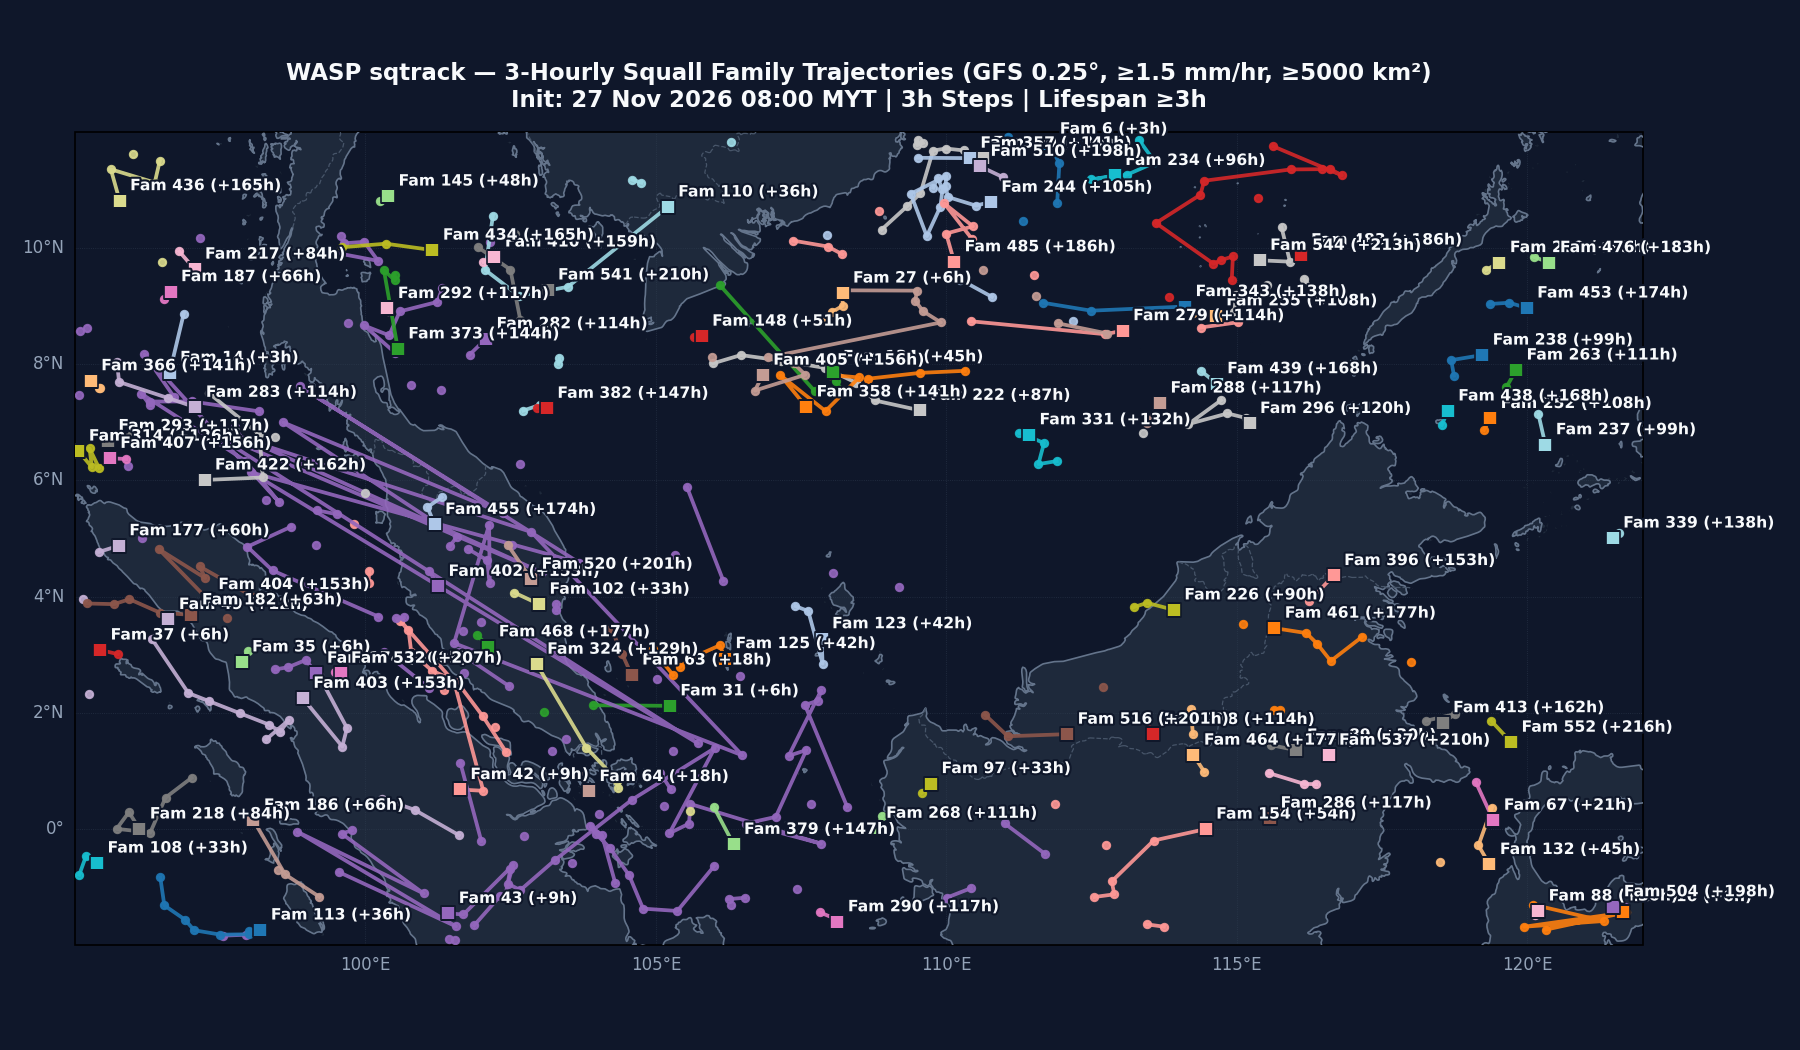
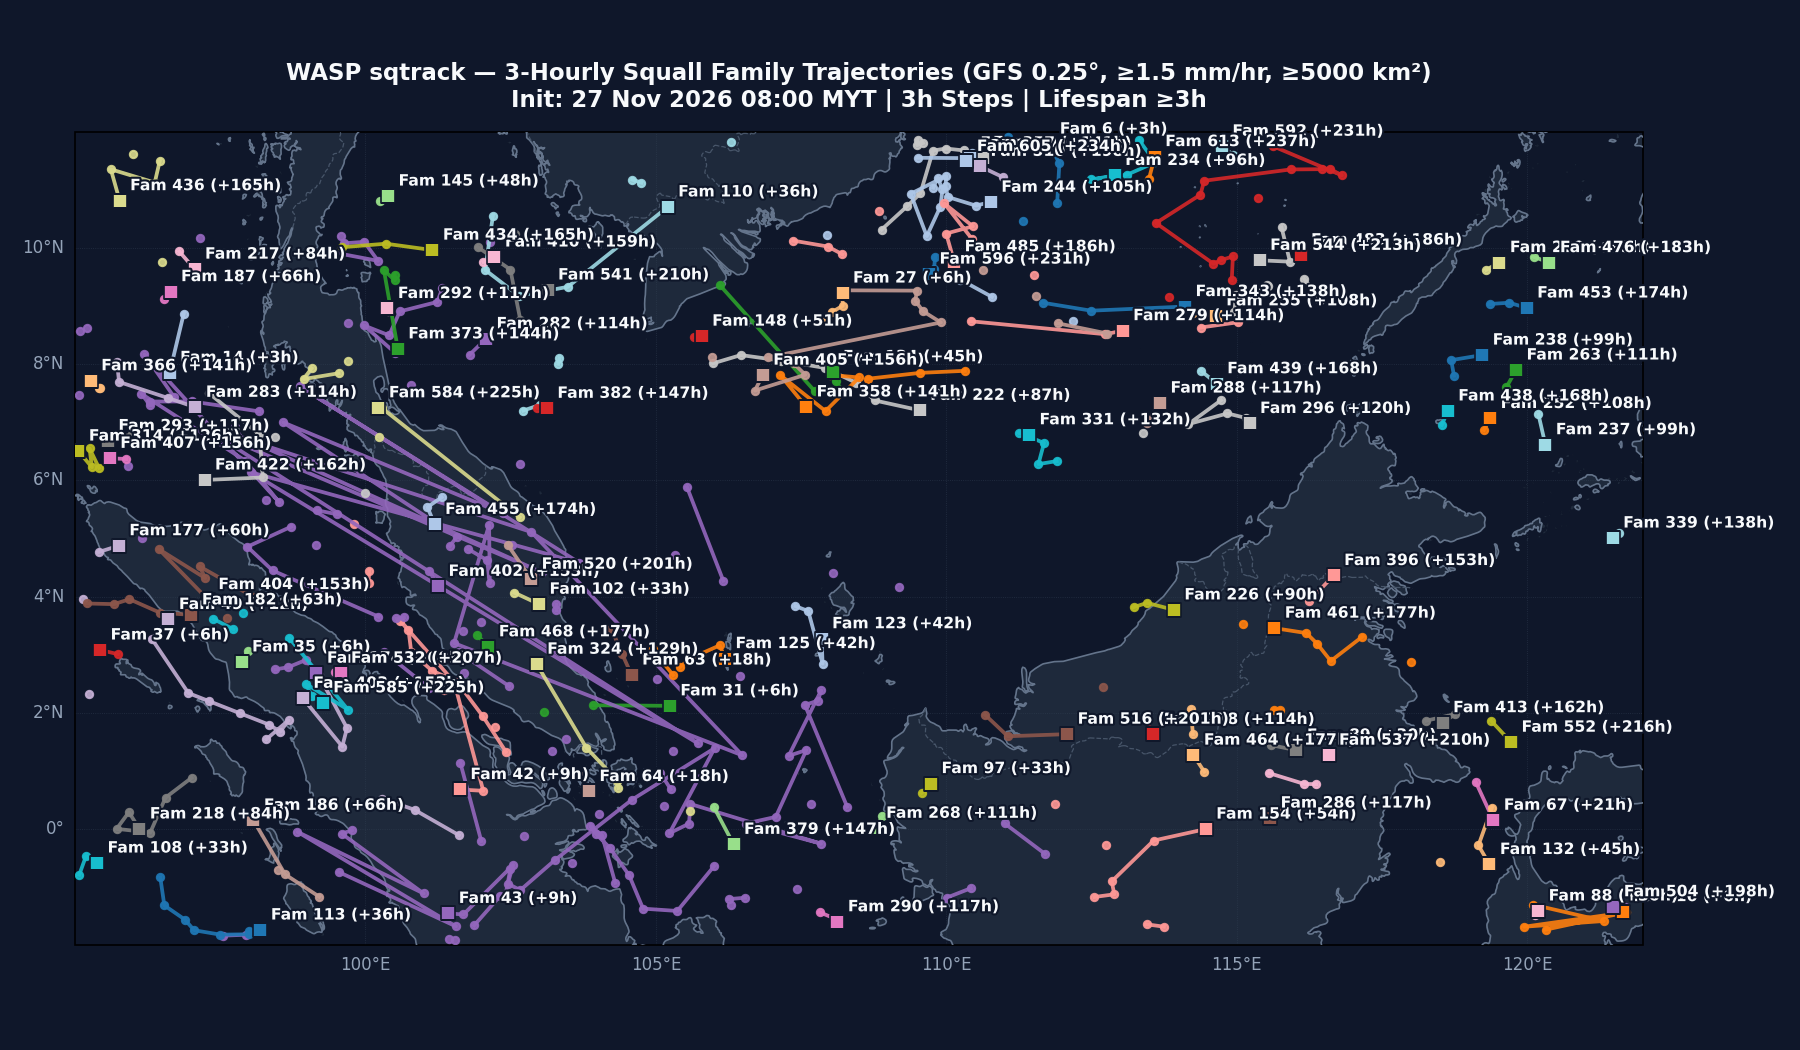
Update forecast images and pages JYDiong/WASP_backend@4c95c727b155086696f99be3c8138aa37157a4f3

diff --git a/bayu.html b/bayu.html
@@ -43,6 +43,11 @@
       font-weight: 600;
       cursor: pointer;
     }
+    .valid-time {
+      color: #38bdf8;
+      font-weight: 600;
+      margin-left: 6px;
+    }
     input[type=range] {
       width: 75%;
       max-width: 620px;
@@ -97,7 +102,10 @@
           </select>
         </div>
         <div>
-          <label for="slider"><strong>Forecast Hour: <span id="hour-label">0</span> hr</strong></label>
+          <label for="slider">
+            <strong>Forecast Hour: <span id="hour-label">0</span> hr</strong>
+            <span id="valid-time" class="valid-time"></span>
+          </label>
         </div>
       </div>
 
@@ -126,6 +134,7 @@
     const slider = document.getElementById("slider");
     const levelSelect = document.getElementById("level-select");
     const hourLabel = document.getElementById("hour-label");
+    const validTimeLabel = document.getElementById("valid-time");
 
     // Scale color/speed range by pressure altitude (m/s)
     const LEVEL_MAX_VEL = {
@@ -134,6 +143,17 @@
       "500": 25,
       "200": 35
     };
+
+    const mytFormatter = new Intl.DateTimeFormat("en-GB", {
+      timeZone: "Asia/Kuala_Lumpur",
+      weekday: "short",
+      day: "2-digit",
+      month: "short",
+      year: "numeric",
+      hour: "2-digit",
+      minute: "2-digit",
+      hour12: false
+    });
 
     async function loadWind() {
       const fxx = Number(slider.value) * 3;
@@ -144,6 +164,18 @@
       try {
         const res = await fetch(`./wind_data/wind_${level}_F${paddedFxx}.json`);
         const data = await res.json();
+
+        // Parse refTime (UTC) from JSON header and display valid MYT timestamp
+        const refTime = data[0]?.header?.refTime;
+        if (refTime) {
+          const isoUtc = refTime.includes("T") ? refTime : refTime.replace(" ", "T") + "Z";
+          const initUtc = new Date(isoUtc);
+          if (!isNaN(initUtc.getTime())) {
+            const validDate = new Date(initUtc.getTime() + fxx * 3600 * 1000);
+            const cycleStr = String(initUtc.getUTCHours()).padStart(2, "0") + "Z";
+            validTimeLabel.textContent = `(${mytFormatter.format(validDate)} MYT | Run: ${cycleStr})`;
+          }
+        }
 
         if (velocityLayer) {
           map.removeLayer(velocityLayer);
